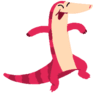
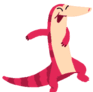
Added health bar.

Changed region(s): [[0.0215, 0.0, 0.9892, 1.0]]

diff --git a/main.py b/main.py
@@ -9,6 +9,8 @@ from nonedible import *
 import random
 from physics import *
 from sfx_mixer import *
+from health_bar import *
+from point import *
 
 
 def init_pygame():
@@ -22,11 +24,12 @@ def run():
     game_manager.run()
     physics.check_hit_wall()
     physics.check_hit_ground()
-    # sound_manager.play_sounds()
+    health_bar.run()
 
 def draw(screen):
     screen.fill((0, 0, 0))
     game_manager.draw(screen)
+    health_bar.draw(screen)
 
 def mix():
     #game_manager.mix()
@@ -40,10 +43,15 @@ player = Player()
 game_manager.add(player)
 player.constraints = Constraints(0,800,0,600)
 
-#test_sound = pygame.mixer.Sound("resources/player/sounds/")
-#sound_manager.add(test_sound)
+health_bar.position.set_pos(330, 100)
+health_bar.hp = 800
+#game_manager.add(health_bar)
 
 loop = True
+# eat = NonEdible()
+# eat.position.x = random.randrange(50, 750)
+# game_manager.add(eat)
+# physics.add_fruits(eat)
 
 i = 30
 while loop:
@@ -62,6 +70,7 @@ while loop:
         game_manager.add(eat)
         physics.add_fruits(eat)
         i = 30
+        health_bar.hp -= 50
 
     ## Update logic
     run()

diff --git a/health_bar.py b/health_bar.py
@@ -1,0 +1,28 @@
+import pygame
+from point import *
+from renderer import *
+from gamemanager import *
+
+class HealthBar:
+    def __init__(self):
+        self.active = True
+        self.flipped = False
+        self.position = Point()
+        #self.renderer = loadSpriteRenderer("resources/player/health_bar.png")
+        self.image = pygame.image.load("resources/player/health_bar.png")
+        self.width = self.image.get_width()
+        self.height = self.image.get_height()
+        self.full_width = self.width
+        self.full_hp = 1000
+        self.hp = 1000
+
+    def run(self):
+        # CUT THE WIDTH OF THE BAR ACCORDING TO HEALTH
+        k = self.hp / self.full_hp
+        self.image = self.image.subsurface((0, 0, self.width * k, self.height))
+        print (k)
+
+    def draw(self, screen):
+        screen.blit(self.image, (self.position.x, self.position.y))
+
+health_bar = HealthBar()

diff --git a/nonedible.py b/nonedible.py
@@ -8,6 +8,7 @@ from boxcollider import *
 import random
 from object_state import ObjectState
 from player import Player
+from health_bar import *
 
 class NonEdible:
     def __init__(self):
@@ -28,8 +29,11 @@ class NonEdible:
         
         if self.position.y >= 600:
             self.active = False
-        
-        self.renderer.staterender.flipped = (self.direction_x < 0)
+
+        if self.direction_x < 0:
+            self.renderer.staterender.flipped = True
+        if self.direction_x > 0:
+            self.renderer.staterender.flipped = False
 
         target = physics.check_contact(self.box_collider)
         if target is not None and type(target) is Player:

diff --git a/point.py b/point.py
@@ -20,3 +20,7 @@ class Point:
     def copy(self, other):
         self.x = other.x
         self.y = other.y
+
+    def set_pos(self, x, y):
+        self.x = x
+        self.y = y
